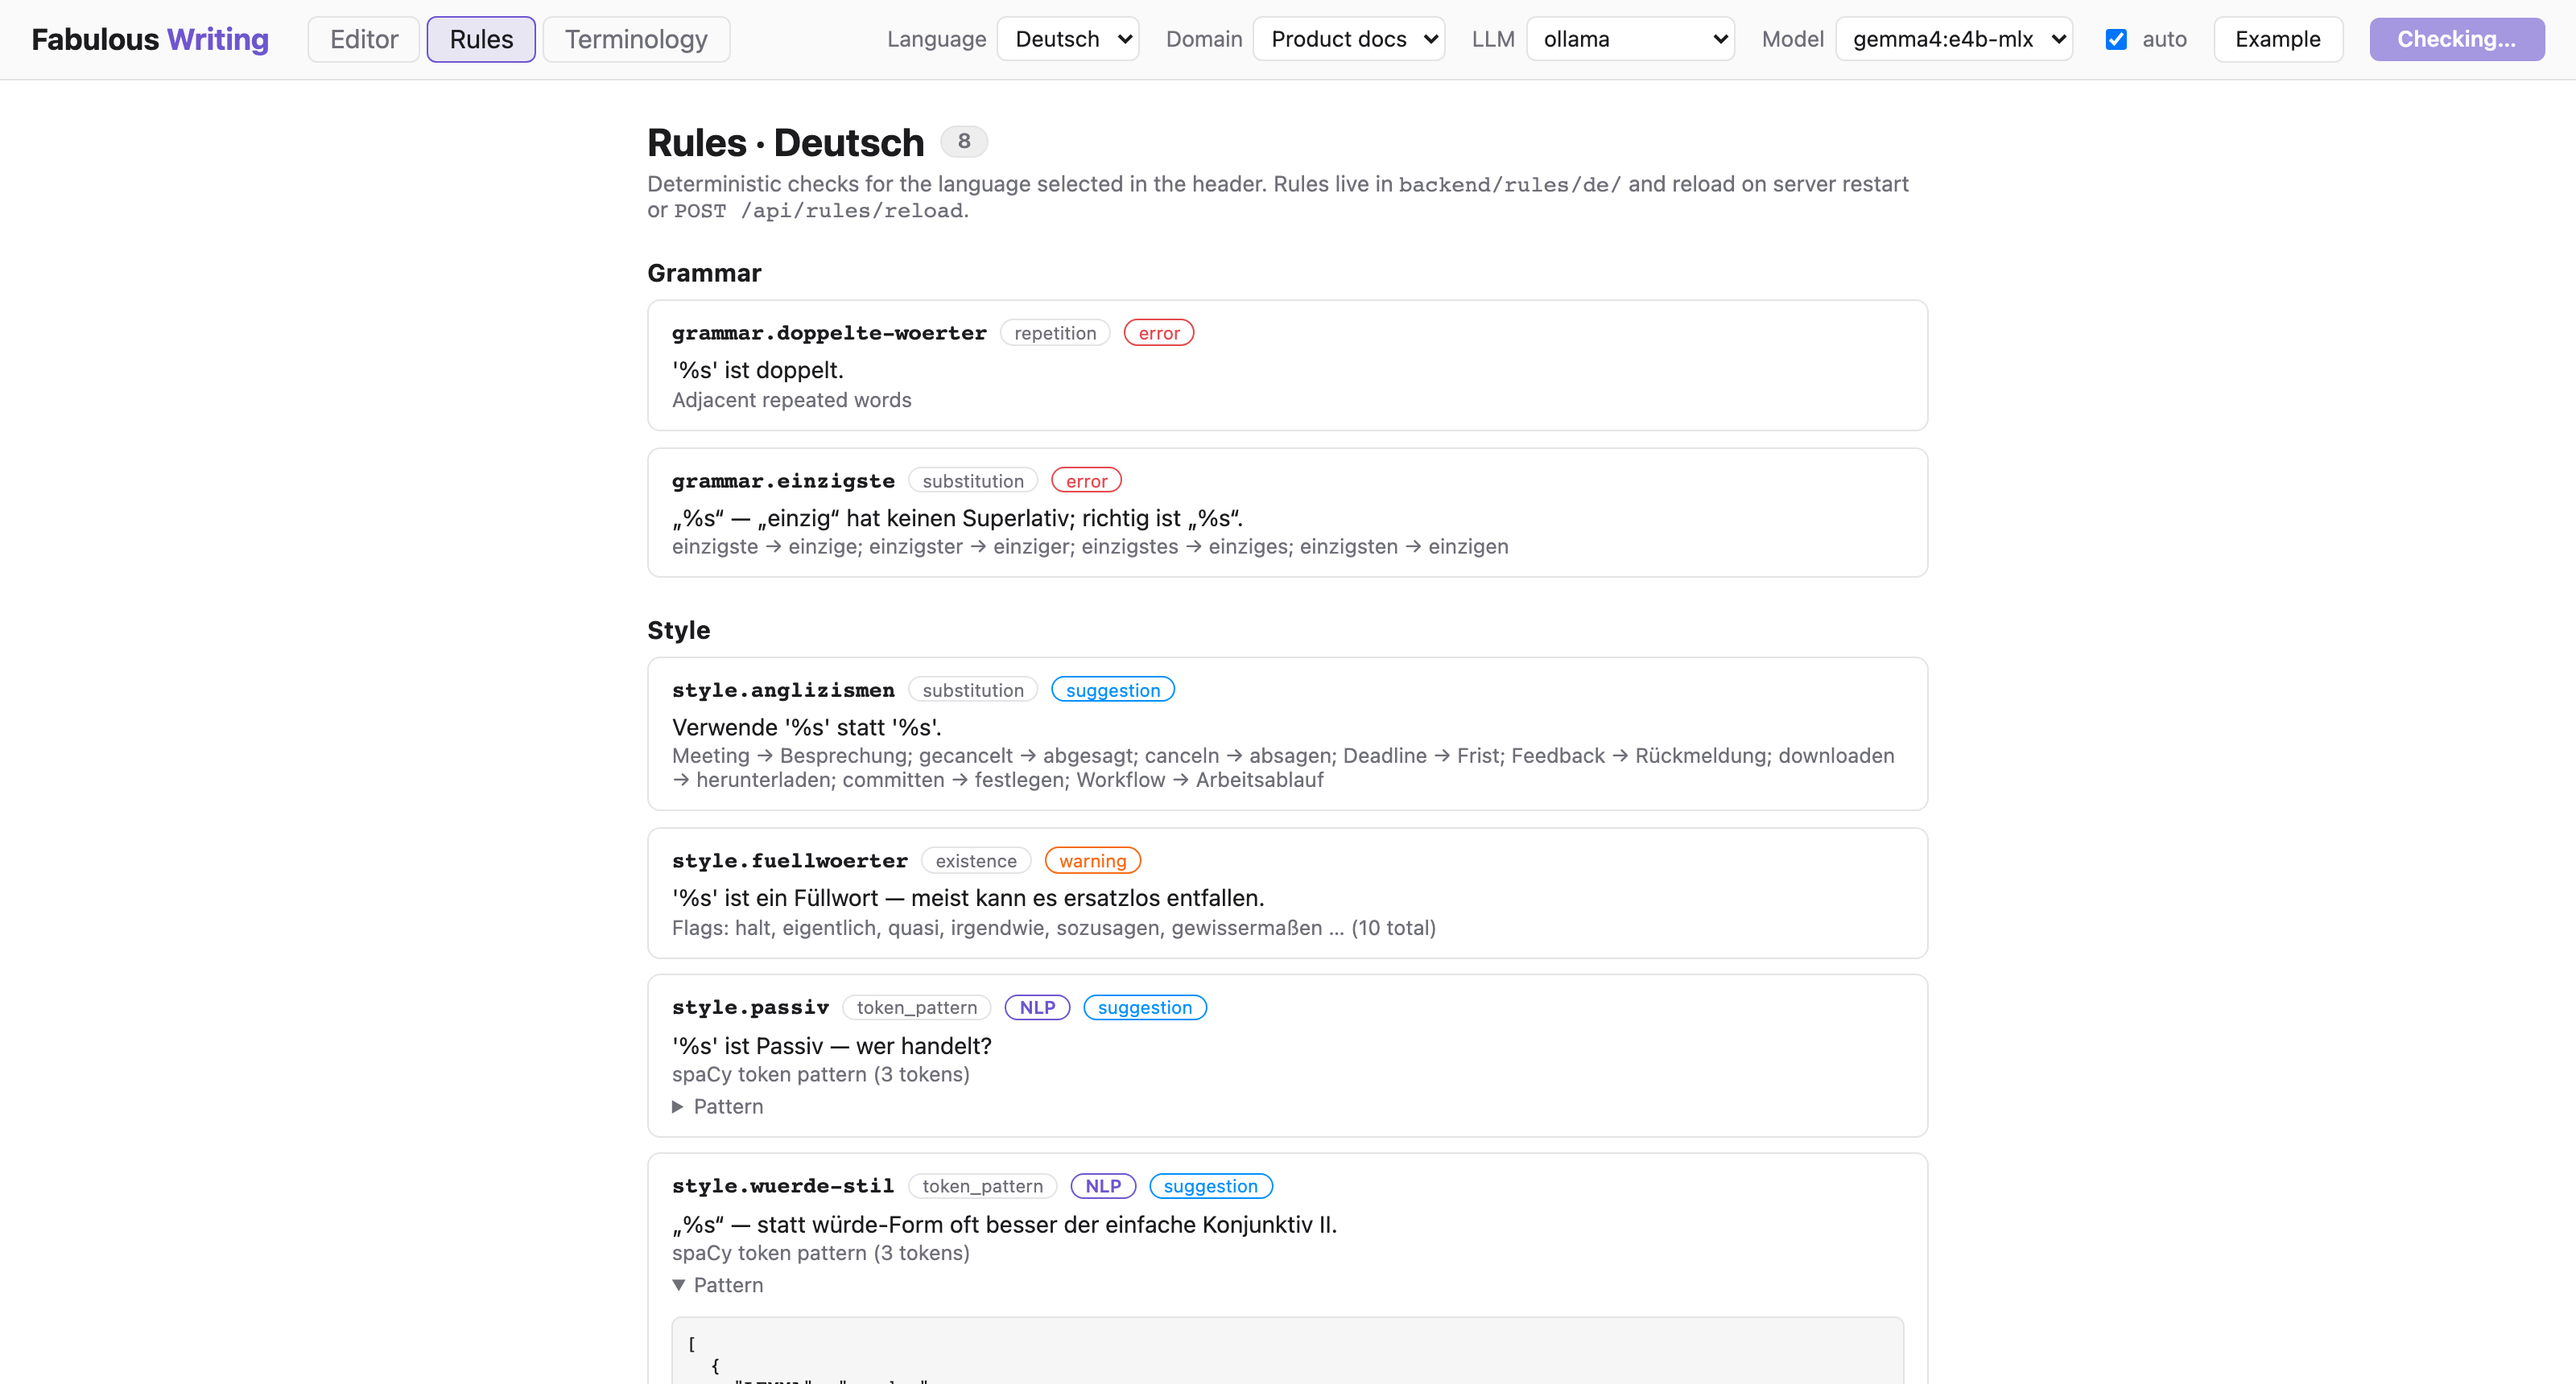
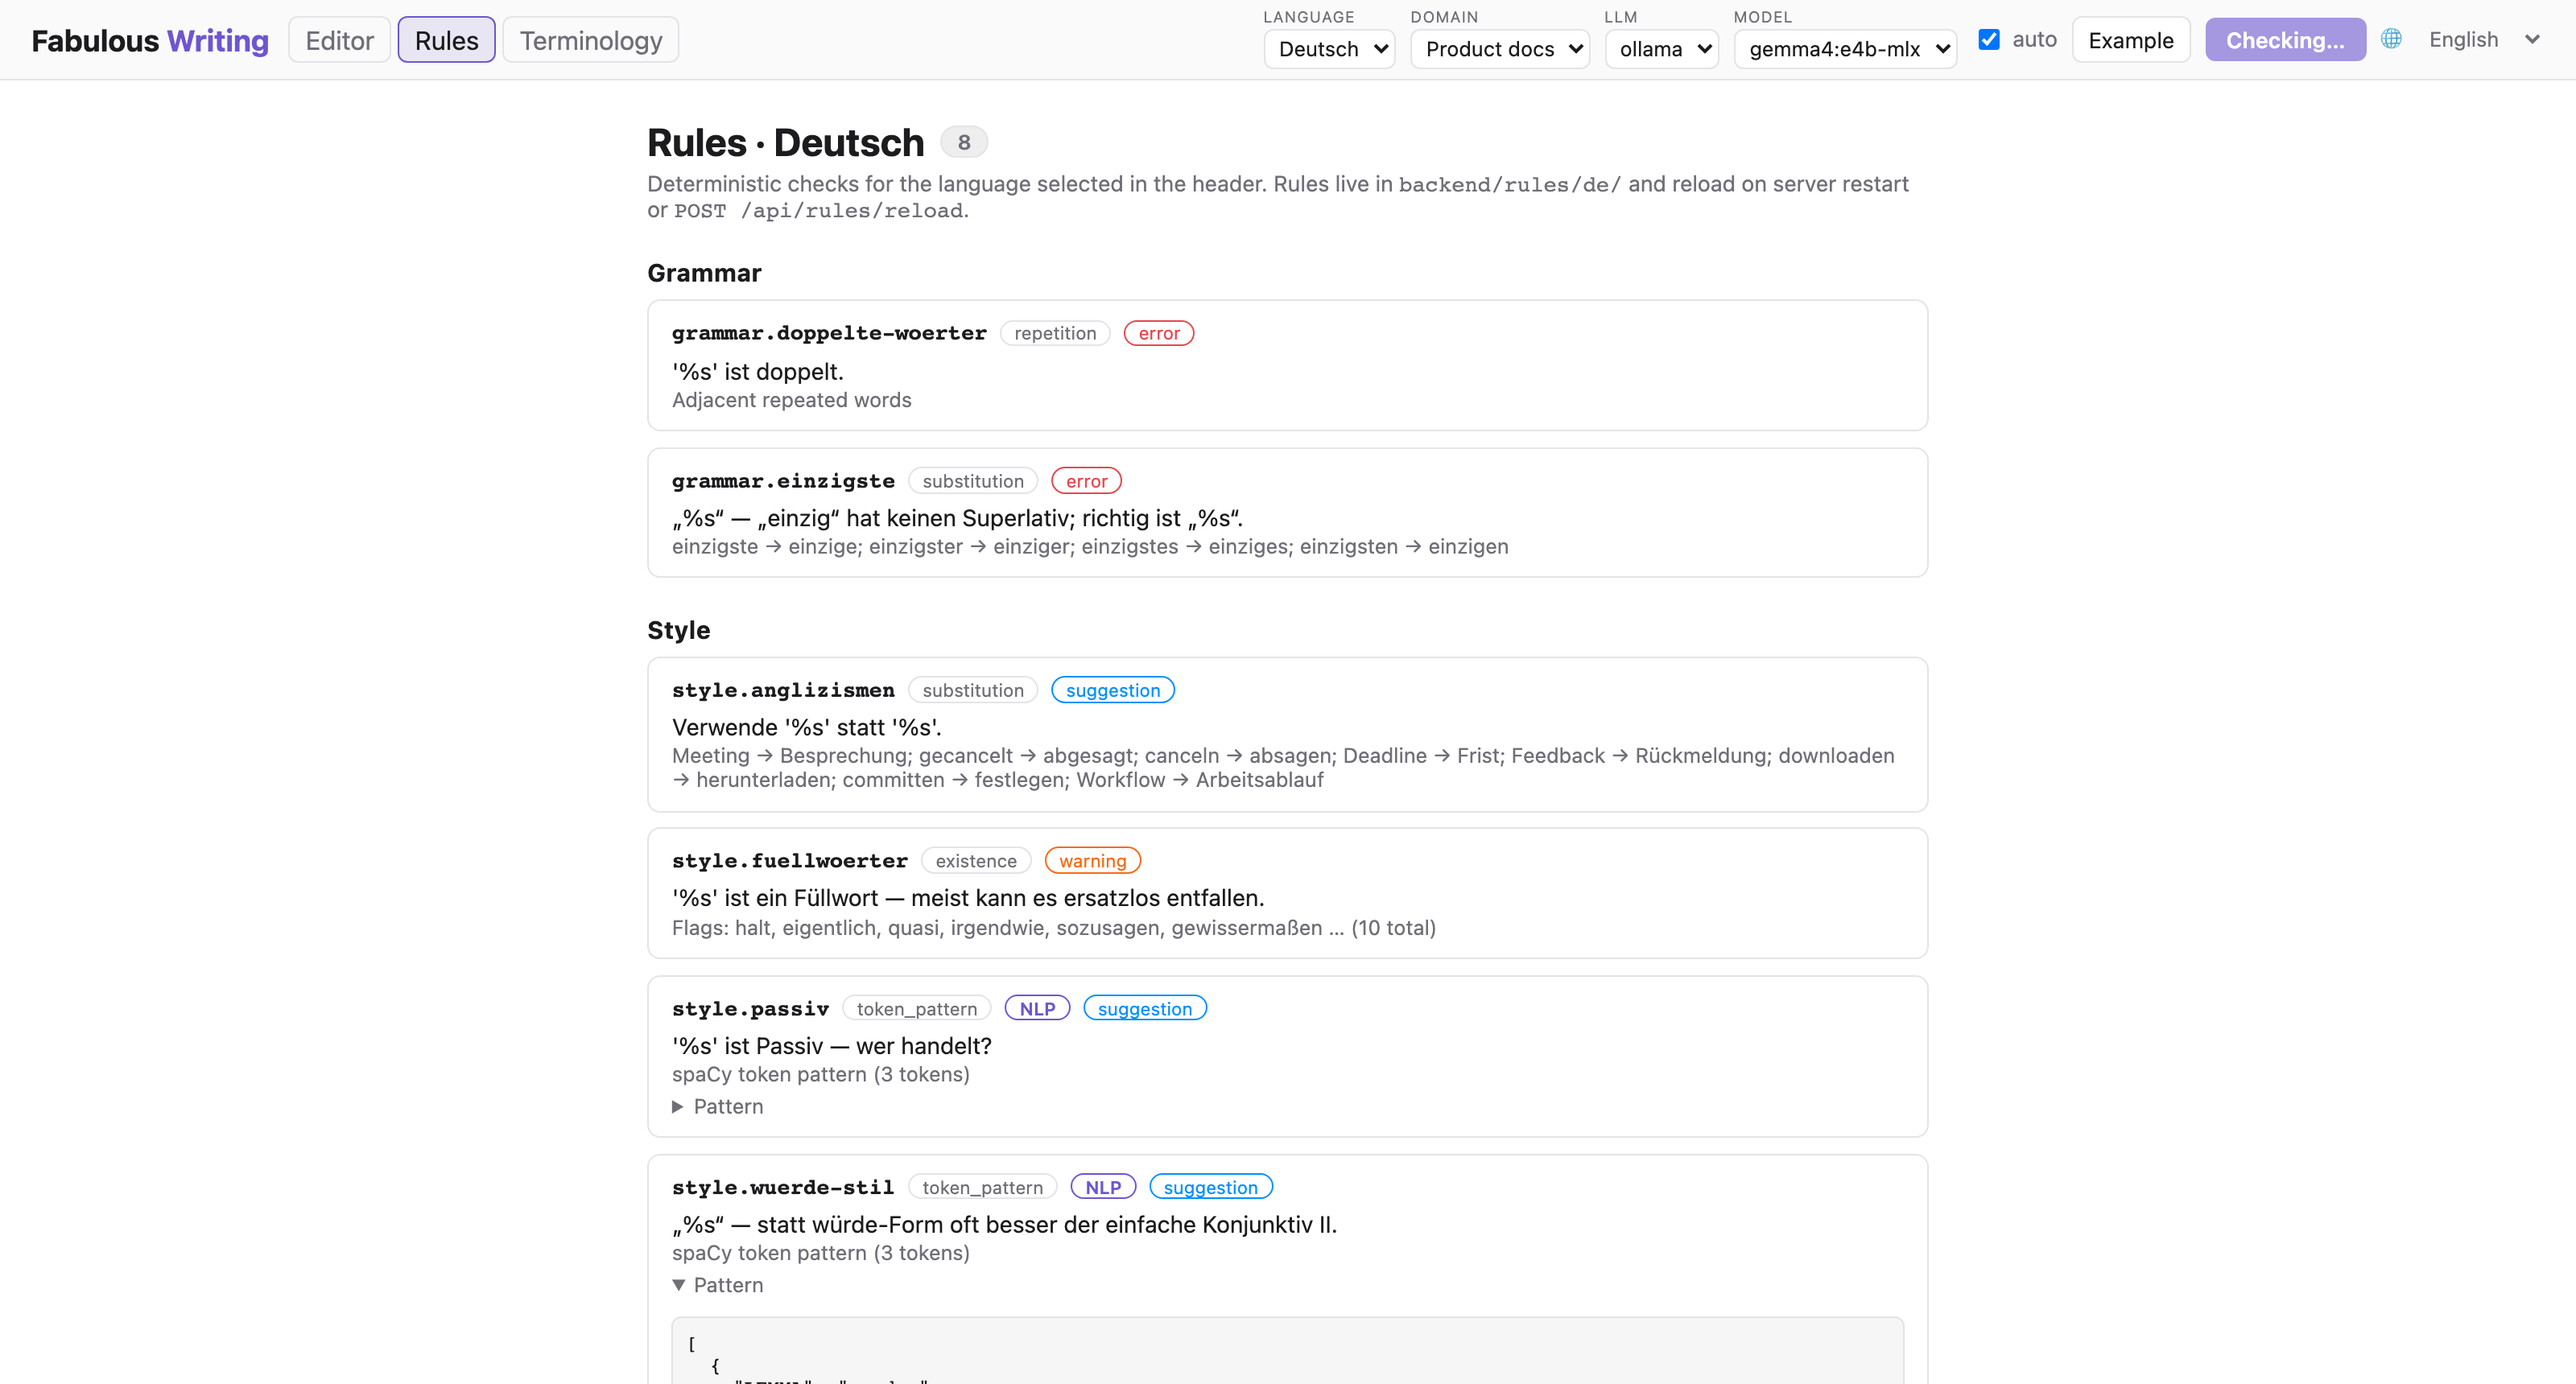
Header redesign: stacked selector labels, fixed height, narrow-window tiers
Selector labels move above their selects in small uppercase type, so each
control only needs its select's width; the header keeps its exact 50px
height (min-height + slimmer padding). CJK button labels get
white-space: nowrap — previously 编辑器 wrapped per-character and grew the
header to 66px. Selects cap at min(10.5rem, 12vw) so long model names
cannot blow up the layout. Below 1200px a compact tier tightens type and
gaps; below 1080px the wordmark is dropped. All seven locales now fit at
1024px (before: Spanish overflowed even at 1280px), verified headless per
locale/width. README screenshots refreshed.

diff --git a/frontend/src/App.css b/frontend/src/App.css
@@ -9,8 +9,11 @@
 .header {
   display: flex;
   align-items: center;
-  gap: 1.5rem;
-  padding: 0.6rem 1.2rem;
+  gap: 0.75rem;
+  padding: 0.3rem 1.2rem;
+  /* Fixed height: the stacked selector labels must not make the header taller. */
+  min-height: 50px;
+  box-sizing: border-box;
   border-bottom: 1px solid var(--border);
   background: var(--panel);
 }
@@ -31,7 +34,8 @@
 }
 
 .view-switch button {
-  padding: 0.3rem 0.8rem;
+  padding: 0.3rem 0.6rem;
+  white-space: nowrap;
   border: 1px solid var(--border);
   background: transparent;
   border-radius: 6px;
@@ -48,33 +52,100 @@
 .header-controls {
   display: flex;
   align-items: center;
-  gap: 1rem;
+  gap: 0.55rem;
   margin-left: auto;
   font-size: 0.85rem;
+  min-width: 0;
 }
 
+/* Selector labels sit above their select in small caps-style type, so a
+   control only needs the width of its select. */
 .header-controls label {
   display: flex;
-  align-items: center;
-  gap: 0.4rem;
+  flex-direction: column;
+  align-items: flex-start;
+  gap: 2px;
   color: var(--text-dim);
+  font-size: 0.6rem;
+  line-height: 1;
+  text-transform: uppercase;
+  letter-spacing: 0.05em;
+  white-space: nowrap;
 }
 
 .header-controls select {
-  padding: 0.25rem 0.4rem;
+  padding: 0.2rem 0.3rem;
   border-radius: 6px;
   border: 1px solid var(--border);
   background: var(--bg);
   color: var(--text);
+  font-size: 0.8rem;
+  letter-spacing: normal;
+  /* Shrink with the viewport so long model names can't blow up the header;
+     the dropdown itself always shows full values. */
+  max-width: min(10.5rem, 12vw);
+}
+
+/* Checkbox and locale switcher keep their compact inline form. */
+.header-controls .auto-toggle,
+.header-controls .locale-switch {
+  flex-direction: row;
+  align-items: center;
+  gap: 0.3rem;
+  font-size: 0.85rem;
+  text-transform: none;
+  letter-spacing: normal;
+}
+
+/* Compact mode for narrow windows: same height, tighter type and gaps. */
+@media (max-width: 1200px) {
+  .header {
+    gap: 0.6rem;
+  }
+
+  .header h1 {
+    font-size: 1rem;
+  }
+
+  .view-switch button {
+    padding: 0.3rem 0.45rem;
+  }
+
+  .header-controls {
+    gap: 0.45rem;
+  }
+
+  .header-controls select {
+    font-size: 0.75rem;
+    max-width: min(9rem, 10vw);
+  }
+
+  .header-controls .locale-switch select {
+    max-width: 4.5rem;
+  }
+
+  .example-button,
+  .check-button {
+    padding: 0.35rem 0.5rem;
+    font-size: 0.85rem;
+  }
+}
+
+/* Very narrow windows: drop the wordmark, the controls matter more. */
+@media (max-width: 1080px) {
+  .header h1 {
+    display: none;
+  }
 }
 
 .example-button {
-  padding: 0.35rem 0.8rem;
+  padding: 0.35rem 0.6rem;
   border-radius: 6px;
   border: 1px solid var(--border);
   background: var(--bg);
   color: var(--text);
   cursor: pointer;
+  white-space: nowrap;
 }
 
 .example-button:hover {
@@ -83,13 +154,14 @@
 }
 
 .check-button {
-  padding: 0.35rem 1.1rem;
+  padding: 0.35rem 0.8rem;
   border-radius: 6px;
   border: none;
   background: var(--accent);
   color: white;
   font-weight: 600;
   cursor: pointer;
+  white-space: nowrap;
 }
 
 .check-button:disabled {
@@ -484,9 +556,9 @@
   display: inline-flex;
   align-items: center;
   gap: 0.25rem;
-  margin-left: 0.4rem;
   color: var(--text-dim);
   font-size: 0.85rem;
+  white-space: nowrap;
 }
 
 .locale-switch select {
